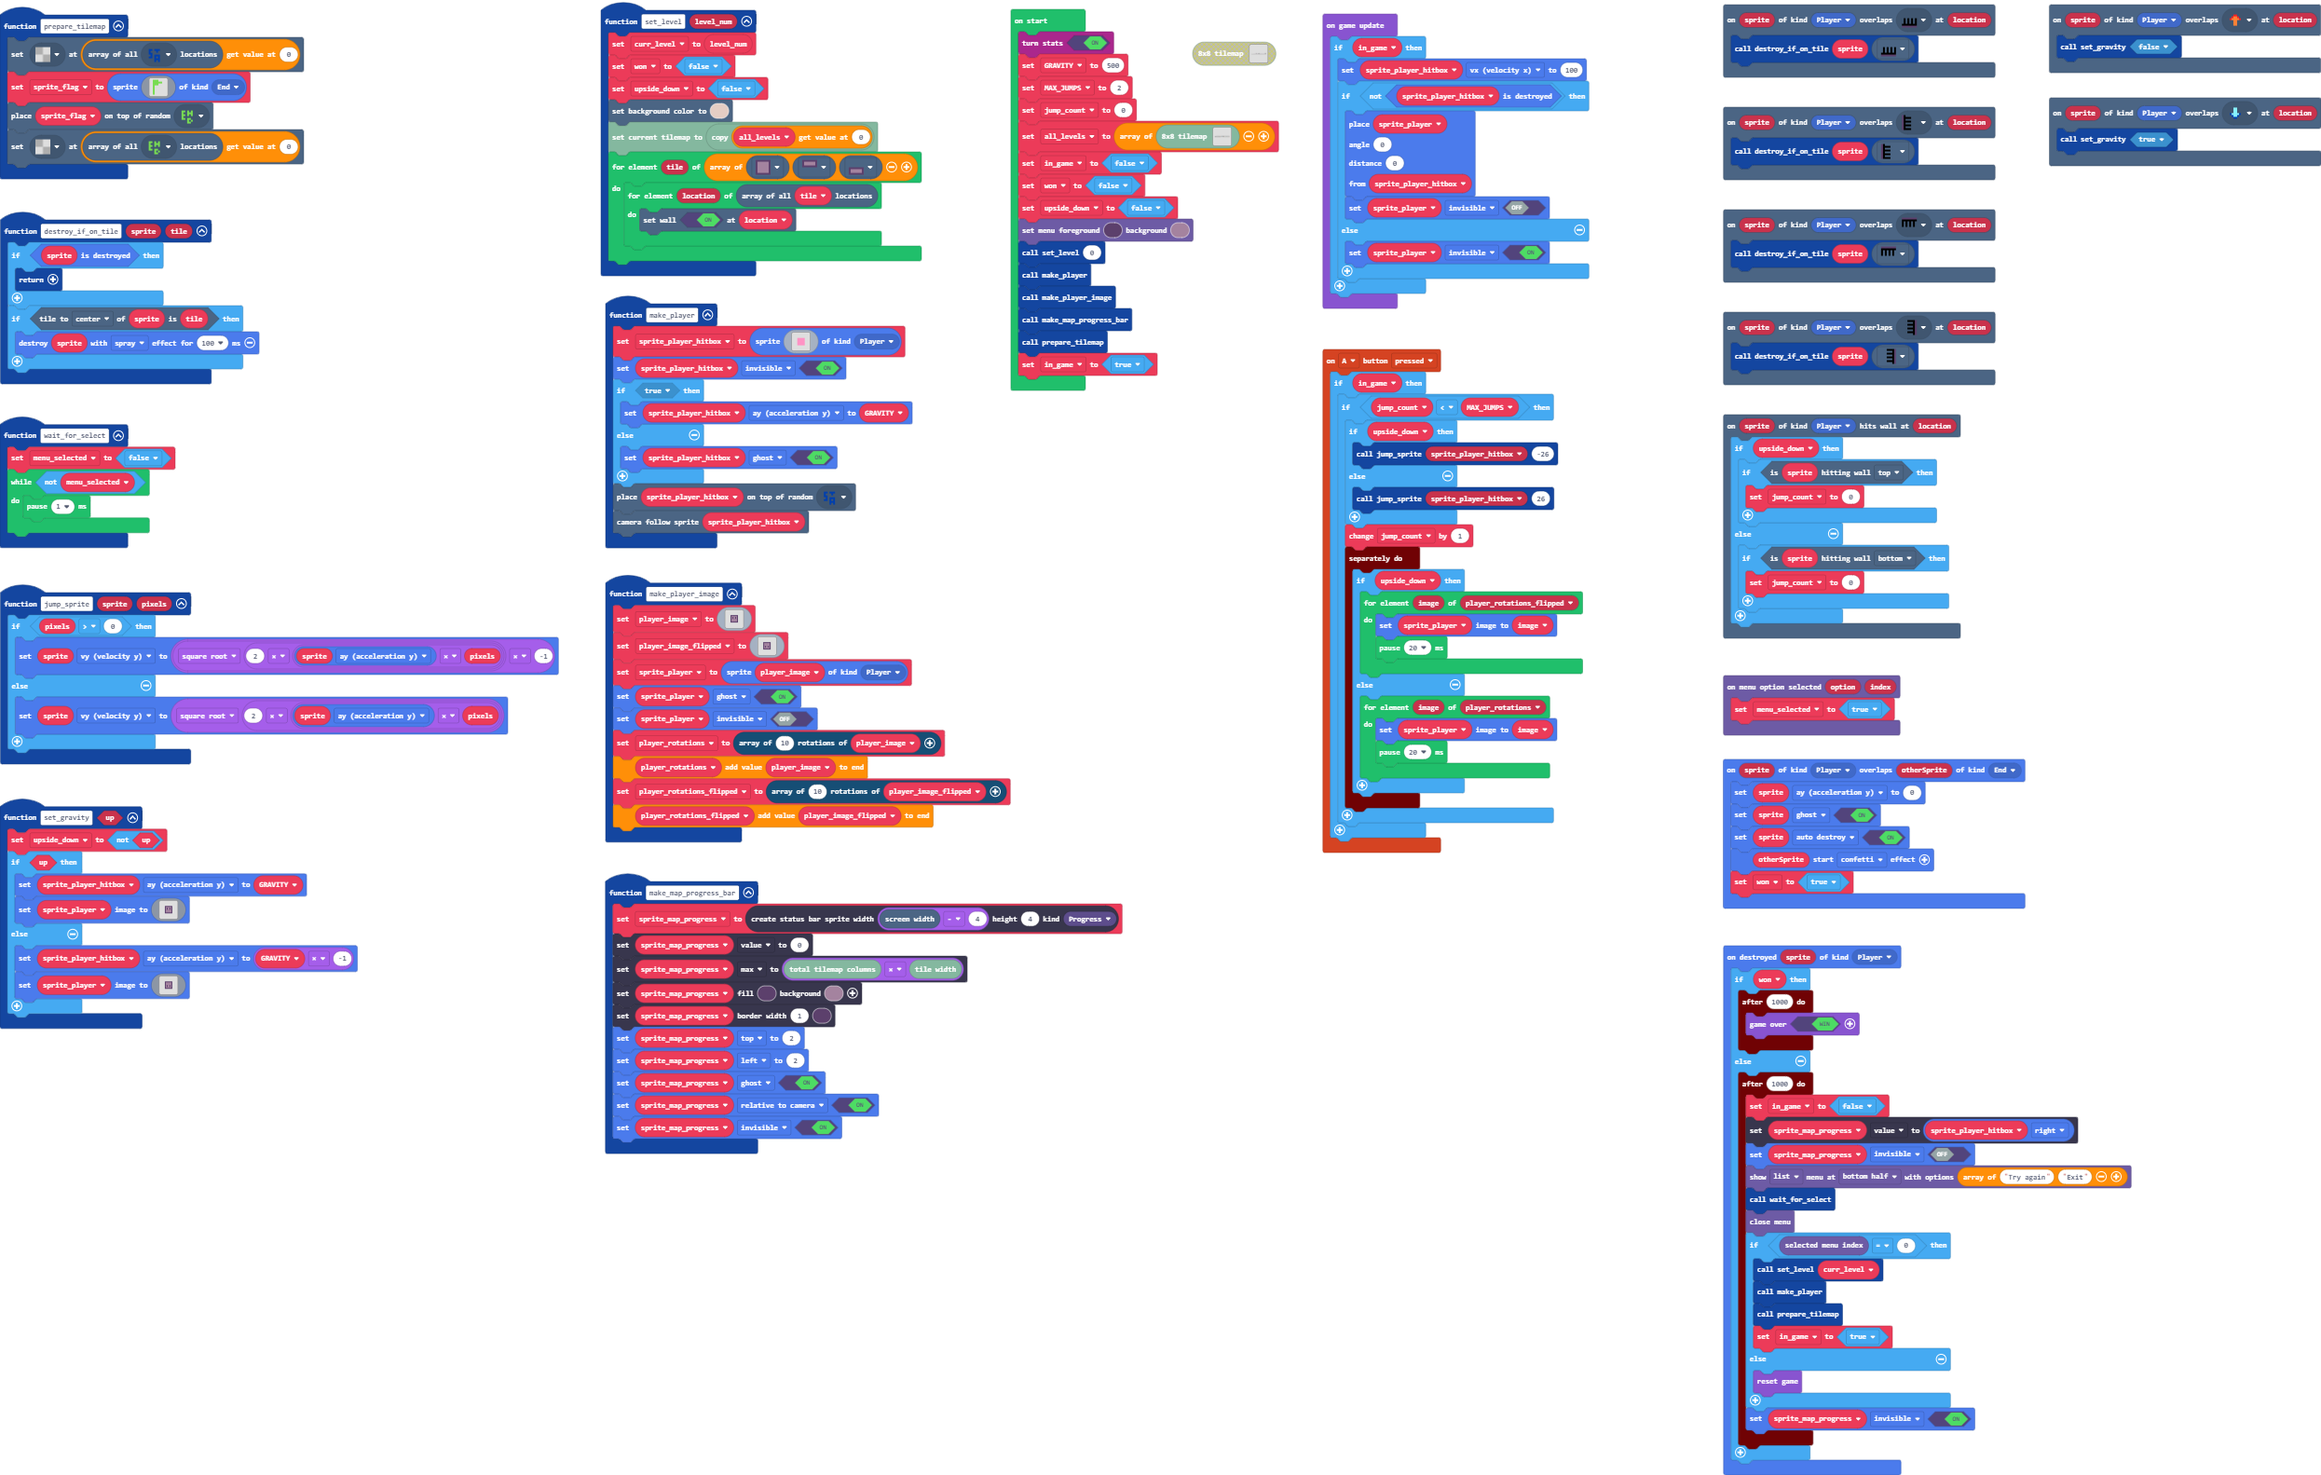
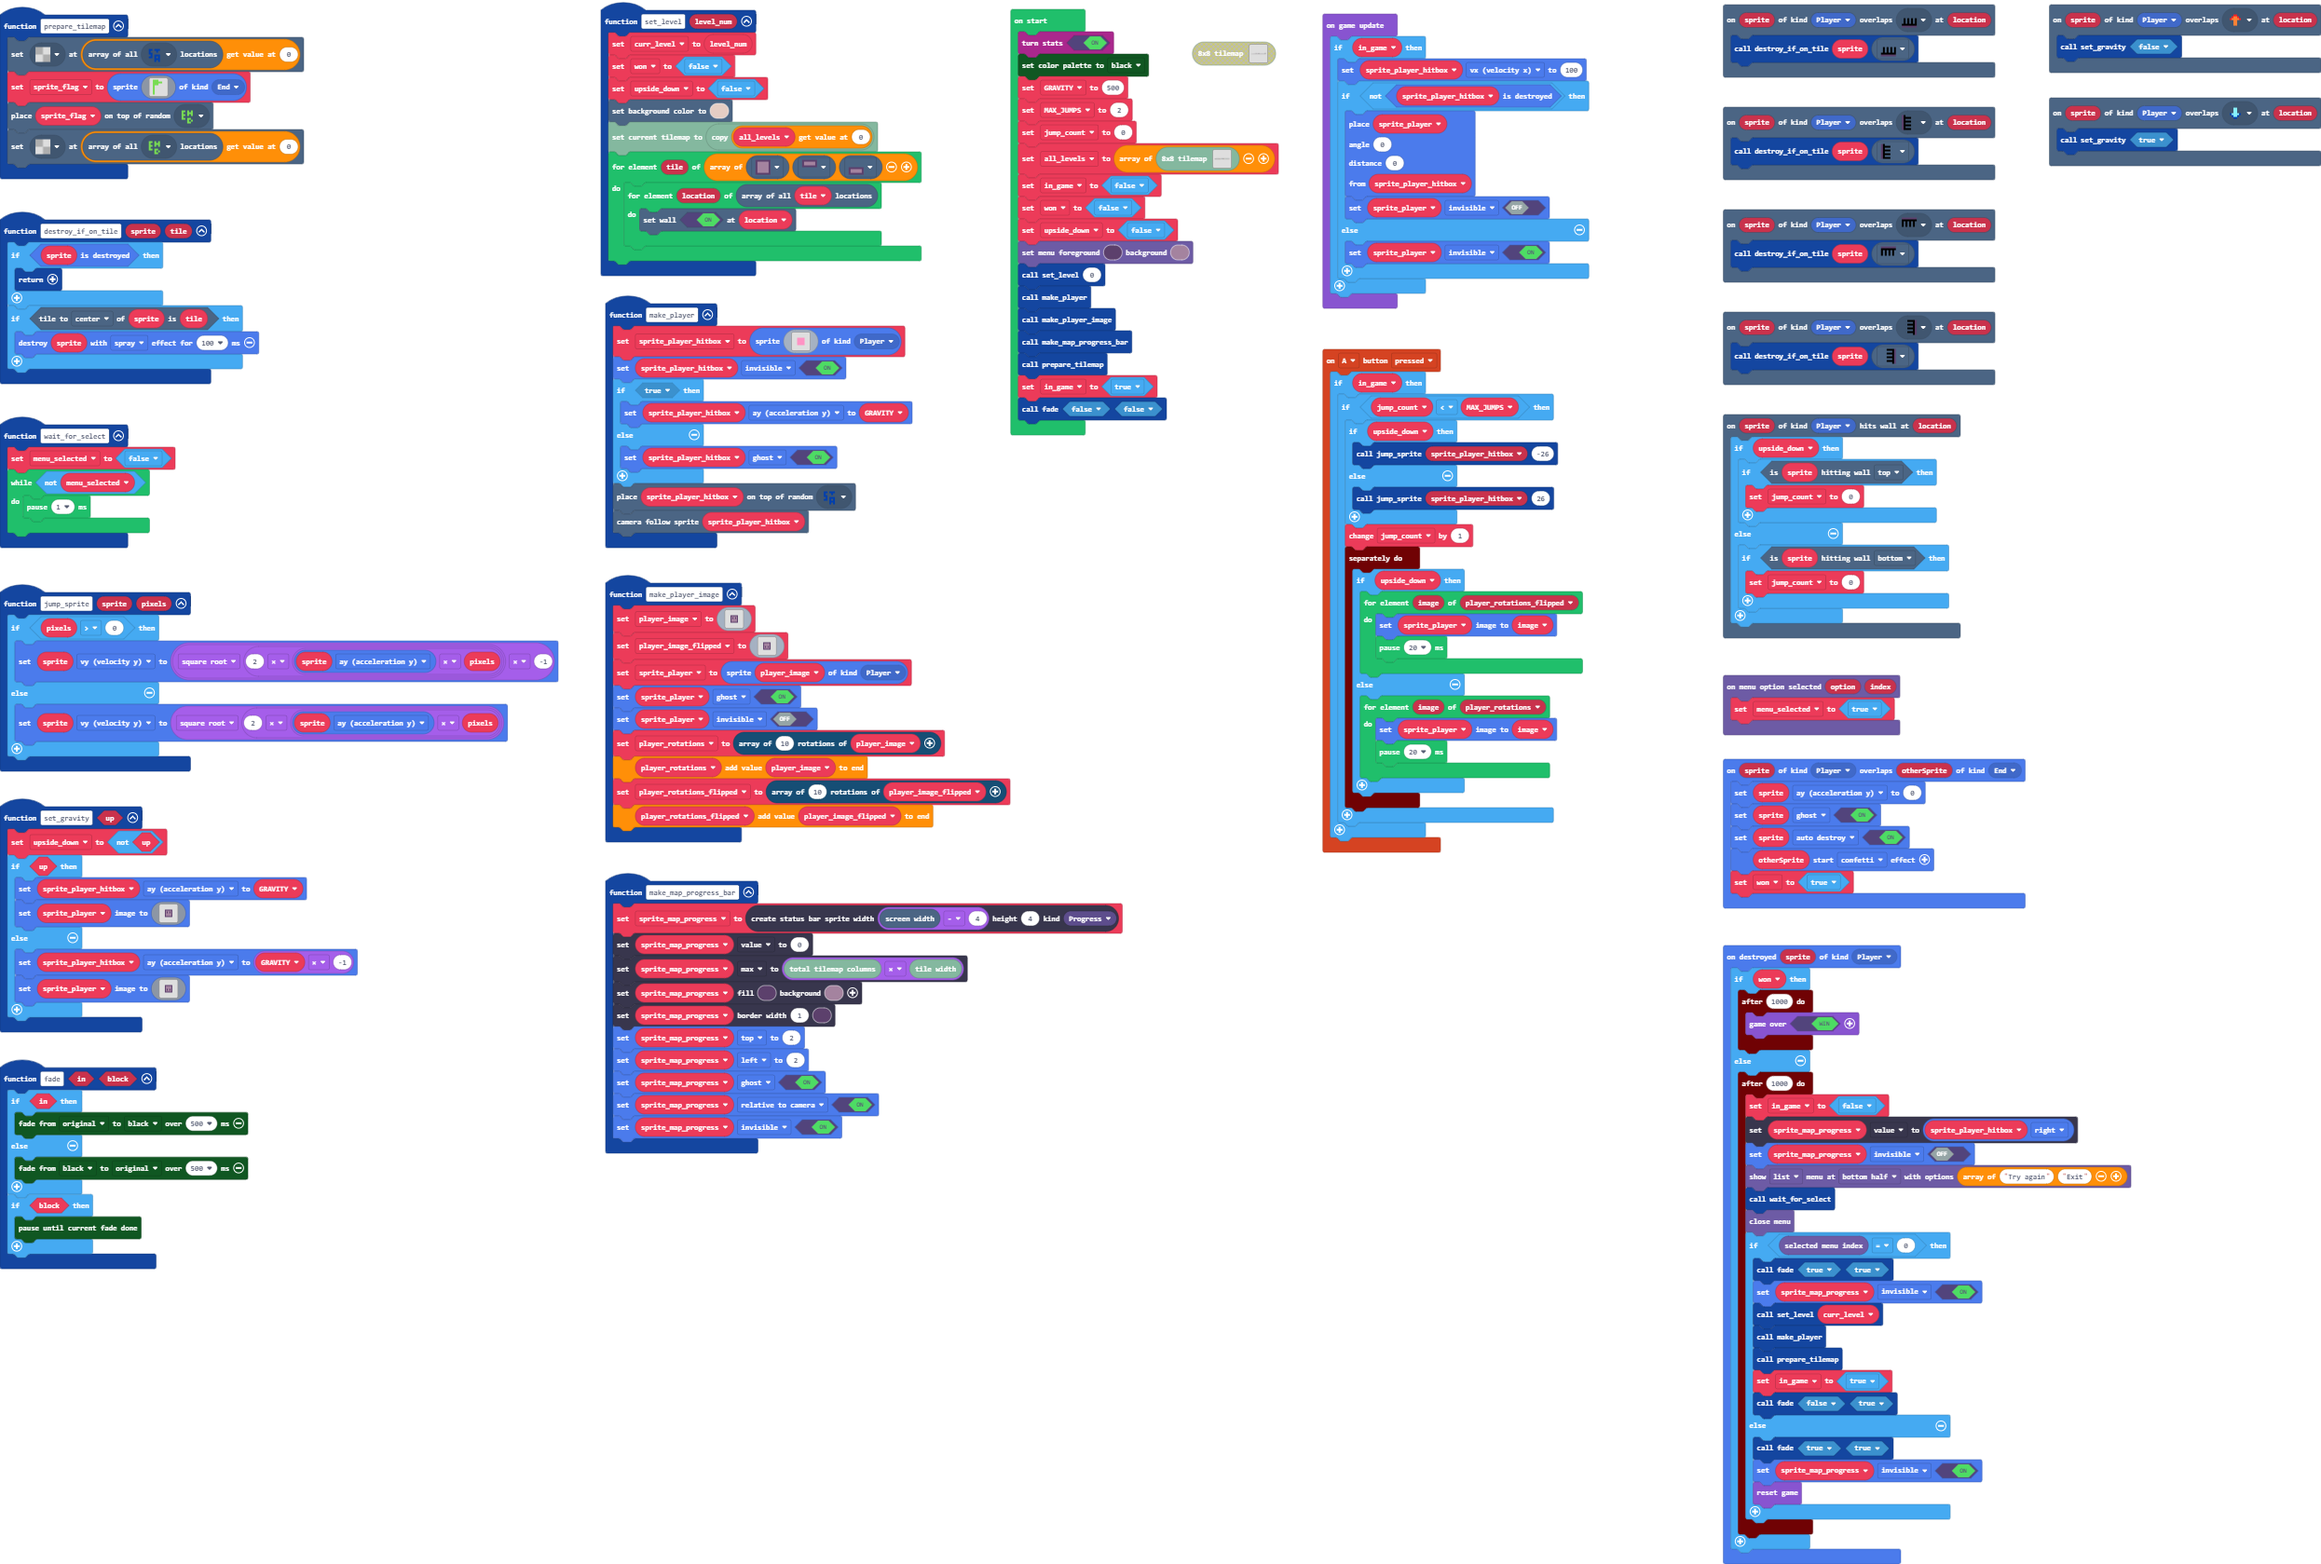
Add fading effects

Changed region(s): [[0.0, 0.0, 0.4946, 0.8358], [0.7419, 0.0, 1.0, 0.9905], [0.4328, 0.0, 0.711, 0.5881]]

diff --git a/main.ts b/main.ts
@@ -124,6 +124,16 @@ function make_player () {
 scene.onOverlapTile(SpriteKind.Player, assets.tile`spikes_right0`, function (sprite, location) {
     destroy_if_on_tile(sprite, assets.tile`spikes_right0`)
 })
+function fade (_in: boolean, block: boolean) {
+    if (_in) {
+        color.startFade(color.originalPalette, color.Black, 500)
+    } else {
+        color.startFade(color.Black, color.originalPalette, 500)
+    }
+    if (block) {
+        color.pauseUntilFadeDone()
+    }
+}
 scene.onOverlapTile(SpriteKind.Player, assets.tile`upside_down_gravity0`, function (sprite, location) {
     set_gravity(false)
 })
@@ -162,14 +172,18 @@ sprites.onDestroyed(SpriteKind.Player, function (sprite) {
             wait_for_select()
             blockMenu.closeMenu()
             if (blockMenu.selectedMenuIndex() == 0) {
+                fade(true, true)
+                sprite_map_progress.setFlag(SpriteFlag.Invisible, true)
                 set_level(curr_level)
                 make_player()
                 prepare_tilemap()
                 in_game = true
+                fade(false, true)
             } else {
+                fade(true, true)
+                sprite_map_progress.setFlag(SpriteFlag.Invisible, true)
                 game.reset()
             }
-            sprite_map_progress.setFlag(SpriteFlag.Invisible, true)
         })
     }
 })
@@ -194,6 +208,9 @@ let jump_count = 0
 let MAX_JUMPS = 0
 let GRAVITY = 0
 stats.turnStats(true)
+color.setPalette(
+color.Black
+)
 GRAVITY = 500
 MAX_JUMPS = 2
 jump_count = 0
@@ -208,6 +225,7 @@ make_player_image()
 make_map_progress_bar()
 prepare_tilemap()
 in_game = true
+fade(false, false)
 game.onUpdate(function () {
     if (in_game) {
         sprite_player_hitbox.vx = 100
